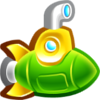
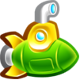
first commit

diff --git a/src/Missle.java b/src/Missle.java
@@ -16,29 +16,36 @@ public class Missle extends Elements {
 
 	public void update() {
 		x += velX;
-		
+
 		checkForCollisions();
 	}
 
 	public void draw(Graphics2D g2d) {
-		g2d.drawImage(getMissleImage(), x+20, y+20, null);
+		g2d.drawImage(getMissleImage(), x + 70, y + 40, null);
 	}
 
 	public Image getMissleImage() {
 
-		ImageIcon ic = new ImageIcon("misss.png");
+		ImageIcon ic = new ImageIcon("Torped.png");
 		return ic.getImage();
 	}
 
 	public void checkForCollisions() {
 		ArrayList<Target> targets = GameFrame.getTargetsList();
+		ArrayList<Missle> missles = GameFrame.getMisslesList();
 		for (int i = 0; i < targets.size(); i++) {
 			Target currentTarget = targets.get(i);
-			if (getBounds().intersects(currentTarget.getBounds())) {
-				// BOOM
-				GameFrame.removeTarget(currentTarget);
+
+			for (int j = 0; j < missles.size(); j++) {
+				Missle currentMissle = missles.get(j);
+				if (getBounds().intersects(currentTarget.getBounds())) {
+					// BOOM
+					GameFrame.removeTarget(currentTarget);
+					GameFrame.removeMissle(currentMissle);
+				}
 			}
 		}
+
 	}
 
 	public Rectangle getBounds() {
@@ -48,26 +55,25 @@ public class Missle extends Elements {
 
 }
 
-
-//public void keyPressed(KeyEvent e) {
-//int key = e.getKeyCode();
-//if (key == KeyEvent.VK_SPACE) {
-//	velX = 10;
-//} else if (key == KeyEvent.VK_A) {
-//	velY = -4;
-//} else if (key == KeyEvent.VK_Z) {
-//	velY = 4;
-//}
+// public void keyPressed(KeyEvent e) {
+// int key = e.getKeyCode();
+// if (key == KeyEvent.VK_SPACE) {
+// velX = 10;
+// } else if (key == KeyEvent.VK_A) {
+// velY = -4;
+// } else if (key == KeyEvent.VK_Z) {
+// velY = 4;
+// }
 //
-//}
+// }
 //
-//public void keyReleased(KeyEvent e) {
-//int key = e.getKeyCode();
-//if (key == KeyEvent.VK_SPACE) {
-//	velX = 10;
-//} else if (key == KeyEvent.VK_A) {
-//	velY = 0;
-//} else if (key == KeyEvent.VK_Z) {
-//	velY = 0;
-//}
-//}
+// public void keyReleased(KeyEvent e) {
+// int key = e.getKeyCode();
+// if (key == KeyEvent.VK_SPACE) {
+// velX = 10;
+// } else if (key == KeyEvent.VK_A) {
+// velY = 0;
+// } else if (key == KeyEvent.VK_Z) {
+// velY = 0;
+// }
+// }

diff --git a/src/GameFrame.java b/src/GameFrame.java
@@ -23,15 +23,15 @@ public class GameFrame extends JPanel implements ActionListener {
 	public GameFrame() {
 		setFocusable(true);
 
-		teamSub = new TeamSub(0, 200);
+		teamSub = new TeamSub(20, 200);
 
 		addKeyListener(new KeyAdapt(teamSub));
 
 		mainTimer = new Timer(10, this);
 		mainTimer.start();
 
-		for (int i = 0, z = 0; i < targetCount; i++, z += 130) {
-			addTarget(new Target(random.nextInt(2) + 410 + z,
+		for (int i = 0, z = 0; i < targetCount; i++, z += 80) {
+			addTarget(new Target(random.nextInt(2) + 560 + z,
 								 random.nextInt(50) + 1));
 		}
 	}

diff --git a/src/Target.java b/src/Target.java
@@ -27,7 +27,7 @@ public class Target extends Elements {
 
 	public Image getTargetImage() {
 
-		ImageIcon ic = new ImageIcon("Subbb.png");
+		ImageIcon ic = new ImageIcon("subFinal.png");
 		return ic.getImage();
 	}
 
